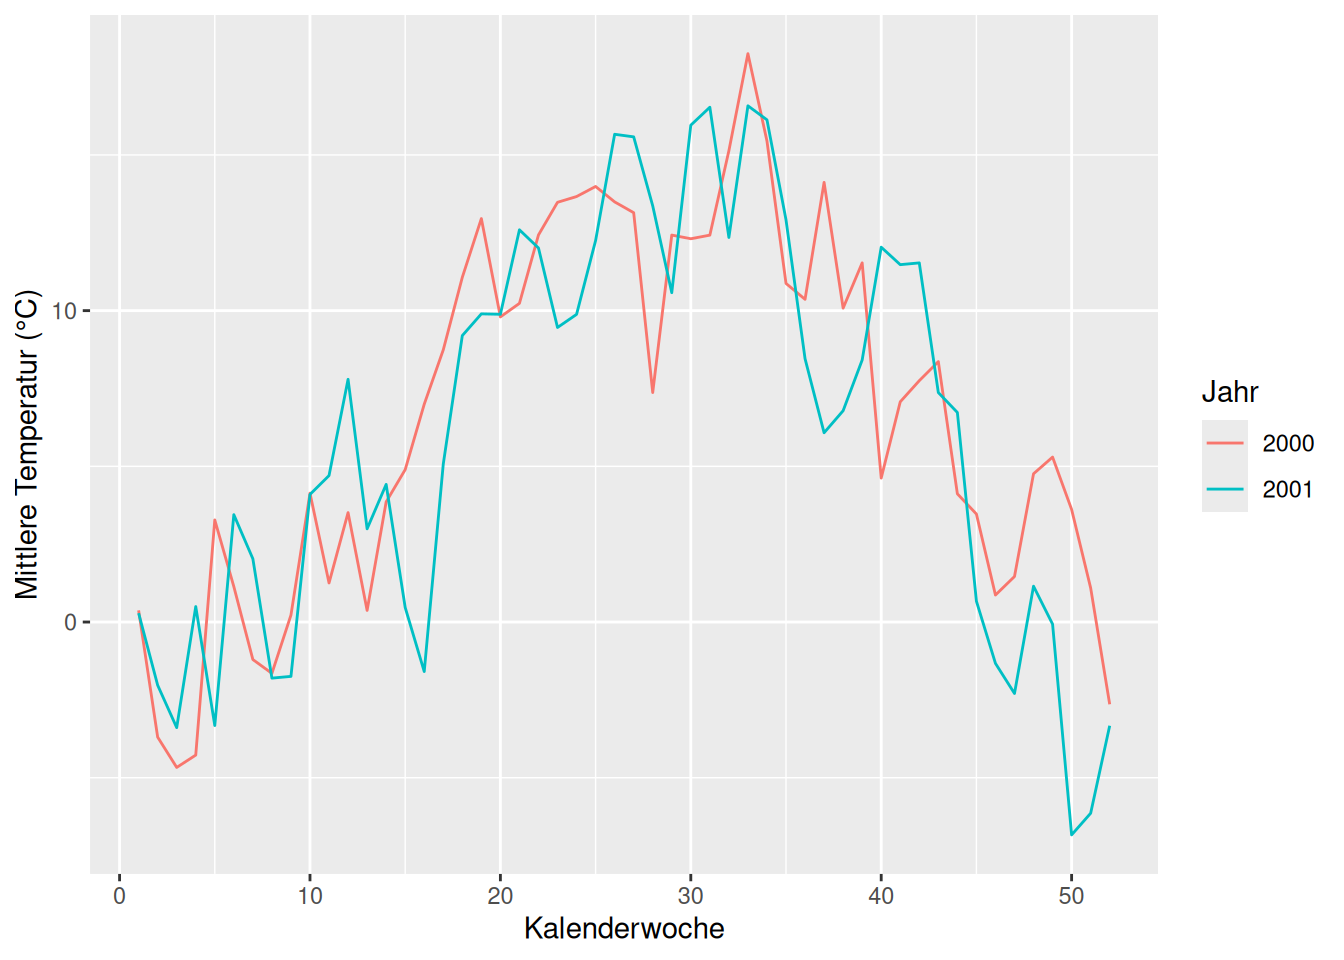
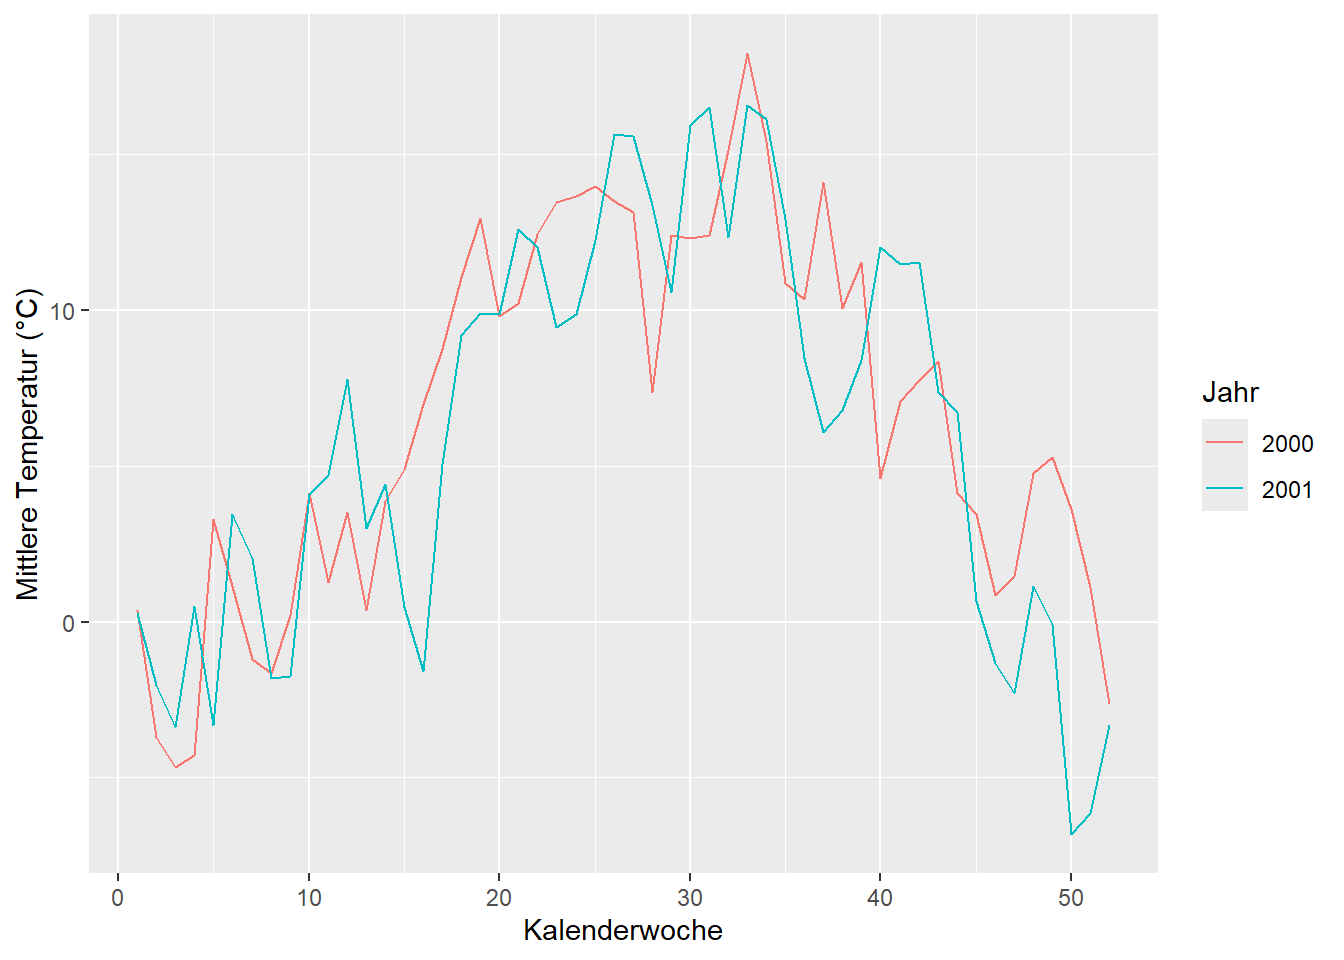
Built site for gh-pages

diff --git a/prepro/Prepro4_Debugging.html b/prepro/Prepro4_Debugging.html
@@ -545,15 +545,8 @@ pre > code.sourceCode > span > a:first-child::before { text-decoration: underlin
 <span id="cb1-2"><a href="#cb1-2" aria-hidden="true" tabindex="-1"></a><span class="fu">library</span>(<span class="st">"lubridate"</span>)</span>
 <span id="cb1-3"><a href="#cb1-3" aria-hidden="true" tabindex="-1"></a></span>
 <span id="cb1-4"><a href="#cb1-4" aria-hidden="true" tabindex="-1"></a>wetter <span class="ot">&lt;-</span> <span class="fu">read_delim</span>(<span class="st">"datasets/prepro/weather_prepro4.csv"</span>, <span class="st">","</span>)</span>
-<span id="cb1-5"><a href="#cb1-5" aria-hidden="true" tabindex="-1"></a><span class="do">## Error:</span></span>
-<span id="cb1-6"><a href="#cb1-6" aria-hidden="true" tabindex="-1"></a><span class="do">## ! 'datasets/prepro/weather_prepro4.csv' does not exist in current</span></span>
-<span id="cb1-7"><a href="#cb1-7" aria-hidden="true" tabindex="-1"></a><span class="do">##   working directory: 'C:/Daten/Lehre/MSc/Research_Methods/HS26/HS26'.</span></span>
-<span id="cb1-8"><a href="#cb1-8" aria-hidden="true" tabindex="-1"></a>wetter<span class="sc">$</span>time <span class="ot">&lt;-</span> <span class="fu">as.POSIXct</span>(<span class="fu">as.character</span>(wetter<span class="sc">$</span>time), <span class="at">format =</span> <span class="st">"%Y%m%d%H"</span>, <span class="at">tz =</span> <span class="st">"UTC"</span>)</span>
-<span id="cb1-9"><a href="#cb1-9" aria-hidden="true" tabindex="-1"></a><span class="do">## Error:</span></span>
-<span id="cb1-10"><a href="#cb1-10" aria-hidden="true" tabindex="-1"></a><span class="do">## ! Objekt 'wetter' nicht gefunden</span></span>
-<span id="cb1-11"><a href="#cb1-11" aria-hidden="true" tabindex="-1"></a>wetter<span class="sc">$</span>monat <span class="ot">&lt;-</span> <span class="fu">month</span>(wetter<span class="sc">$</span>time)</span>
-<span id="cb1-12"><a href="#cb1-12" aria-hidden="true" tabindex="-1"></a><span class="do">## Error:</span></span>
-<span id="cb1-13"><a href="#cb1-13" aria-hidden="true" tabindex="-1"></a><span class="do">## ! Objekt 'wetter' nicht gefunden</span></span></code></pre></div><button title="In die Zwischenablage kopieren" class="code-copy-button"><i class="bi"></i></button></div>
+<span id="cb1-5"><a href="#cb1-5" aria-hidden="true" tabindex="-1"></a>wetter<span class="sc">$</span>time <span class="ot">&lt;-</span> <span class="fu">as.POSIXct</span>(<span class="fu">as.character</span>(wetter<span class="sc">$</span>time), <span class="at">format =</span> <span class="st">"%Y%m%d%H"</span>, <span class="at">tz =</span> <span class="st">"UTC"</span>)</span>
+<span id="cb1-6"><a href="#cb1-6" aria-hidden="true" tabindex="-1"></a>wetter<span class="sc">$</span>monat <span class="ot">&lt;-</span> <span class="fu">month</span>(wetter<span class="sc">$</span>time)</span></code></pre></div><button title="In die Zwischenablage kopieren" class="code-copy-button"><i class="bi"></i></button></div>
 </div>
 </section>
 <section id="beispiel-1-base-r" class="level3">
@@ -573,14 +566,8 @@ pre > code.sourceCode > span > a:first-child::before { text-decoration: underlin
 <p>Jetzt lassen wir den Code laufen.</p>
 <div class="cell">
 <div class="code-copy-outer-scaffold"><div class="sourceCode cell-code" id="cb3"><pre class="sourceCode r code-with-copy"><code class="sourceCode r"><span id="cb3-1"><a href="#cb3-1" aria-hidden="true" tabindex="-1"></a><span class="fu">mean</span>(wetter<span class="sc">$</span>tre200h0[wetter<span class="sc">$</span>monat <span class="sc">==</span> <span class="st">"Januar"</span>])</span>
-<span id="cb3-2"><a href="#cb3-2" aria-hidden="true" tabindex="-1"></a><span class="do">## Error:</span></span>
-<span id="cb3-3"><a href="#cb3-3" aria-hidden="true" tabindex="-1"></a><span class="do">## ! Objekt 'wetter' nicht gefunden</span></span>
-<span id="cb3-4"><a href="#cb3-4" aria-hidden="true" tabindex="-1"></a><span class="fu">mean</span>(wetter<span class="sc">$</span>tre200h0[wetter<span class="sc">$</span>monat <span class="sc">==</span> <span class="st">"Februar"</span>])</span>
-<span id="cb3-5"><a href="#cb3-5" aria-hidden="true" tabindex="-1"></a><span class="do">## Error:</span></span>
-<span id="cb3-6"><a href="#cb3-6" aria-hidden="true" tabindex="-1"></a><span class="do">## ! Objekt 'wetter' nicht gefunden</span></span>
-<span id="cb3-7"><a href="#cb3-7" aria-hidden="true" tabindex="-1"></a><span class="fu">mean</span>(wetter<span class="sc">$</span>tre200h0[wetter<span class="sc">$</span>monat <span class="sc">==</span> <span class="st">"März"</span>])</span>
-<span id="cb3-8"><a href="#cb3-8" aria-hidden="true" tabindex="-1"></a><span class="do">## Error:</span></span>
-<span id="cb3-9"><a href="#cb3-9" aria-hidden="true" tabindex="-1"></a><span class="do">## ! Objekt 'wetter' nicht gefunden</span></span></code></pre></div><button title="In die Zwischenablage kopieren" class="code-copy-button"><i class="bi"></i></button></div>
+<span id="cb3-2"><a href="#cb3-2" aria-hidden="true" tabindex="-1"></a><span class="fu">mean</span>(wetter<span class="sc">$</span>tre200h0[wetter<span class="sc">$</span>monat <span class="sc">==</span> <span class="st">"Februar"</span>])</span>
+<span id="cb3-3"><a href="#cb3-3" aria-hidden="true" tabindex="-1"></a><span class="fu">mean</span>(wetter<span class="sc">$</span>tre200h0[wetter<span class="sc">$</span>monat <span class="sc">==</span> <span class="st">"März"</span>])</span></code></pre></div><button title="In die Zwischenablage kopieren" class="code-copy-button"><i class="bi"></i></button></div>
 </div>
 <ul>
 <li><p><strong>Was ist der Output dieses Codes?</strong> → NaN als Ergebnis</p></li>
@@ -590,32 +577,22 @@ pre > code.sourceCode > span > a:first-child::before { text-decoration: underlin
 <p>Welche Werte sind in der Spalte <code>monat</code> enthalten?</p>
 <div class="cell">
 <div class="code-copy-outer-scaffold"><div class="sourceCode cell-code" id="cb4"><pre class="sourceCode r code-with-copy"><code class="sourceCode r"><span id="cb4-1"><a href="#cb4-1" aria-hidden="true" tabindex="-1"></a>wetter<span class="sc">$</span>monat[<span class="dv">1</span><span class="sc">:</span><span class="dv">10</span>]</span>
-<span id="cb4-2"><a href="#cb4-2" aria-hidden="true" tabindex="-1"></a><span class="do">## Error:</span></span>
-<span id="cb4-3"><a href="#cb4-3" aria-hidden="true" tabindex="-1"></a><span class="do">## ! Objekt 'wetter' nicht gefunden</span></span></code></pre></div><button title="In die Zwischenablage kopieren" class="code-copy-button"><i class="bi"></i></button></div>
+<span id="cb4-2"><a href="#cb4-2" aria-hidden="true" tabindex="-1"></a><span class="do">##  [1] 1 1 1 1 1 1 1 1 1 1</span></span></code></pre></div><button title="In die Zwischenablage kopieren" class="code-copy-button"><i class="bi"></i></button></div>
 </div>
 <p>Das Problem ist, dass <code>monat</code> als Integer codiert ist und nicht mit Namen. Wir haben somit unseren Fehler lokalisiert und können ihn debuggen.</p>
 <div class="cell">
 <div class="code-copy-outer-scaffold"><div class="sourceCode cell-code" id="cb5"><pre class="sourceCode r code-with-copy"><code class="sourceCode r"><span id="cb5-1"><a href="#cb5-1" aria-hidden="true" tabindex="-1"></a>wetter<span class="sc">$</span>monat <span class="sc">==</span> <span class="dv">1</span></span>
-<span id="cb5-2"><a href="#cb5-2" aria-hidden="true" tabindex="-1"></a><span class="do">## Error:</span></span>
-<span id="cb5-3"><a href="#cb5-3" aria-hidden="true" tabindex="-1"></a><span class="do">## ! Objekt 'wetter' nicht gefunden</span></span>
-<span id="cb5-4"><a href="#cb5-4" aria-hidden="true" tabindex="-1"></a>wetter<span class="sc">$</span>monat <span class="sc">==</span> <span class="dv">2</span></span>
-<span id="cb5-5"><a href="#cb5-5" aria-hidden="true" tabindex="-1"></a><span class="do">## Error:</span></span>
-<span id="cb5-6"><a href="#cb5-6" aria-hidden="true" tabindex="-1"></a><span class="do">## ! Objekt 'wetter' nicht gefunden</span></span>
-<span id="cb5-7"><a href="#cb5-7" aria-hidden="true" tabindex="-1"></a>wetter<span class="sc">$</span>monat <span class="sc">==</span> <span class="dv">3</span></span>
-<span id="cb5-8"><a href="#cb5-8" aria-hidden="true" tabindex="-1"></a><span class="do">## Error:</span></span>
-<span id="cb5-9"><a href="#cb5-9" aria-hidden="true" tabindex="-1"></a><span class="do">## ! Objekt 'wetter' nicht gefunden</span></span></code></pre></div><button title="In die Zwischenablage kopieren" class="code-copy-button"><i class="bi"></i></button></div>
+<span id="cb5-2"><a href="#cb5-2" aria-hidden="true" tabindex="-1"></a>wetter<span class="sc">$</span>monat <span class="sc">==</span> <span class="dv">2</span></span>
+<span id="cb5-3"><a href="#cb5-3" aria-hidden="true" tabindex="-1"></a>wetter<span class="sc">$</span>monat <span class="sc">==</span> <span class="dv">3</span></span></code></pre></div><button title="In die Zwischenablage kopieren" class="code-copy-button"><i class="bi"></i></button></div>
 </div>
 <p>Jetzt lassen wir den Code noch einmal laufen, damit wir den Output begutachten können.</p>
 <div class="cell">
 <div class="code-copy-outer-scaffold"><div class="sourceCode cell-code" id="cb6"><pre class="sourceCode r code-with-copy"><code class="sourceCode r"><span id="cb6-1"><a href="#cb6-1" aria-hidden="true" tabindex="-1"></a><span class="fu">mean</span>(wetter<span class="sc">$</span>tre200h0[wetter<span class="sc">$</span>monat <span class="sc">==</span> <span class="dv">1</span>])</span>
-<span id="cb6-2"><a href="#cb6-2" aria-hidden="true" tabindex="-1"></a><span class="do">## Error:</span></span>
-<span id="cb6-3"><a href="#cb6-3" aria-hidden="true" tabindex="-1"></a><span class="do">## ! Objekt 'wetter' nicht gefunden</span></span>
-<span id="cb6-4"><a href="#cb6-4" aria-hidden="true" tabindex="-1"></a><span class="fu">mean</span>(wetter<span class="sc">$</span>tre200h0[wetter<span class="sc">$</span>monat <span class="sc">==</span> <span class="dv">2</span>])</span>
-<span id="cb6-5"><a href="#cb6-5" aria-hidden="true" tabindex="-1"></a><span class="do">## Error:</span></span>
-<span id="cb6-6"><a href="#cb6-6" aria-hidden="true" tabindex="-1"></a><span class="do">## ! Objekt 'wetter' nicht gefunden</span></span>
-<span id="cb6-7"><a href="#cb6-7" aria-hidden="true" tabindex="-1"></a><span class="fu">mean</span>(wetter<span class="sc">$</span>tre200h0[wetter<span class="sc">$</span>monat <span class="sc">==</span> <span class="dv">3</span>])</span>
-<span id="cb6-8"><a href="#cb6-8" aria-hidden="true" tabindex="-1"></a><span class="do">## Error:</span></span>
-<span id="cb6-9"><a href="#cb6-9" aria-hidden="true" tabindex="-1"></a><span class="do">## ! Objekt 'wetter' nicht gefunden</span></span></code></pre></div><button title="In die Zwischenablage kopieren" class="code-copy-button"><i class="bi"></i></button></div>
+<span id="cb6-2"><a href="#cb6-2" aria-hidden="true" tabindex="-1"></a><span class="do">## [1] -1.963239</span></span>
+<span id="cb6-3"><a href="#cb6-3" aria-hidden="true" tabindex="-1"></a><span class="fu">mean</span>(wetter<span class="sc">$</span>tre200h0[wetter<span class="sc">$</span>monat <span class="sc">==</span> <span class="dv">2</span>])</span>
+<span id="cb6-4"><a href="#cb6-4" aria-hidden="true" tabindex="-1"></a><span class="do">## [1] 0.3552632</span></span>
+<span id="cb6-5"><a href="#cb6-5" aria-hidden="true" tabindex="-1"></a><span class="fu">mean</span>(wetter<span class="sc">$</span>tre200h0[wetter<span class="sc">$</span>monat <span class="sc">==</span> <span class="dv">3</span>])</span>
+<span id="cb6-6"><a href="#cb6-6" aria-hidden="true" tabindex="-1"></a><span class="do">## [1] 2.965054</span></span></code></pre></div><button title="In die Zwischenablage kopieren" class="code-copy-button"><i class="bi"></i></button></div>
 </div>
 <p>Jetzt sieht der Output gut sein.</p>
 </section>
@@ -630,8 +607,9 @@ pre > code.sourceCode > span > a:first-child::before { text-decoration: underlin
 <span id="cb7-5"><a href="#cb7-5" aria-hidden="true" tabindex="-1"></a>  <span class="fu">summarise</span>(</span>
 <span id="cb7-6"><a href="#cb7-6" aria-hidden="true" tabindex="-1"></a>    <span class="at">temp_mean =</span> <span class="fu">mean</span>(tre200h0)</span>
 <span id="cb7-7"><a href="#cb7-7" aria-hidden="true" tabindex="-1"></a>  )</span>
-<span id="cb7-8"><a href="#cb7-8" aria-hidden="true" tabindex="-1"></a><span class="do">## Error:</span></span>
-<span id="cb7-9"><a href="#cb7-9" aria-hidden="true" tabindex="-1"></a><span class="do">## ! Objekt 'wetter' nicht gefunden</span></span></code></pre></div><button title="In die Zwischenablage kopieren" class="code-copy-button"><i class="bi"></i></button></div>
+<span id="cb7-8"><a href="#cb7-8" aria-hidden="true" tabindex="-1"></a><span class="do">## Error in `group_by()`:</span></span>
+<span id="cb7-9"><a href="#cb7-9" aria-hidden="true" tabindex="-1"></a><span class="do">## ! Must group by variables found in `.data`.</span></span>
+<span id="cb7-10"><a href="#cb7-10" aria-hidden="true" tabindex="-1"></a><span class="do">## ✖ Column `monate` is not found.</span></span></code></pre></div><button title="In die Zwischenablage kopieren" class="code-copy-button"><i class="bi"></i></button></div>
 </div>
 <ul>
 <li><p><strong>Was ist der Output dieses Codes?</strong> → Es erscheint die Fehlermeldung: <em>Error in <code>group_by()</code>: ! Must group by variables found in <code>.data</code>. ✖ Column <code>monate</code> is not found.</em></p></li>
@@ -640,8 +618,7 @@ pre > code.sourceCode > span > a:first-child::before { text-decoration: underlin
 </ul>
 <div class="cell">
 <div class="code-copy-outer-scaffold"><div class="sourceCode cell-code" id="cb8"><pre class="sourceCode r code-with-copy"><code class="sourceCode r"><span id="cb8-1"><a href="#cb8-1" aria-hidden="true" tabindex="-1"></a><span class="fu">colnames</span>(wetter)</span>
-<span id="cb8-2"><a href="#cb8-2" aria-hidden="true" tabindex="-1"></a><span class="do">## Error:</span></span>
-<span id="cb8-3"><a href="#cb8-3" aria-hidden="true" tabindex="-1"></a><span class="do">## ! Objekt 'wetter' nicht gefunden</span></span></code></pre></div><button title="In die Zwischenablage kopieren" class="code-copy-button"><i class="bi"></i></button></div>
+<span id="cb8-2"><a href="#cb8-2" aria-hidden="true" tabindex="-1"></a><span class="do">## [1] "stn"      "time"     "tre200h0" "monat"</span></span></code></pre></div><button title="In die Zwischenablage kopieren" class="code-copy-button"><i class="bi"></i></button></div>
 </div>
 <p>Wir bereinigen den Code und lassen den gefixten Code laufen:</p>
 <div class="cell">
@@ -649,9 +626,7 @@ pre > code.sourceCode > span > a:first-child::before { text-decoration: underlin
 <span id="cb9-2"><a href="#cb9-2" aria-hidden="true" tabindex="-1"></a>  <span class="fu">group_by</span>(monat) <span class="sc">|&gt;</span></span>
 <span id="cb9-3"><a href="#cb9-3" aria-hidden="true" tabindex="-1"></a>  <span class="fu">summarise</span>(</span>
 <span id="cb9-4"><a href="#cb9-4" aria-hidden="true" tabindex="-1"></a>    <span class="at">temp_mean =</span> <span class="fu">mean</span>(tre200h0)</span>
-<span id="cb9-5"><a href="#cb9-5" aria-hidden="true" tabindex="-1"></a>  )</span>
-<span id="cb9-6"><a href="#cb9-6" aria-hidden="true" tabindex="-1"></a><span class="do">## Error:</span></span>
-<span id="cb9-7"><a href="#cb9-7" aria-hidden="true" tabindex="-1"></a><span class="do">## ! Objekt 'wetter' nicht gefunden</span></span></code></pre></div><button title="In die Zwischenablage kopieren" class="code-copy-button"><i class="bi"></i></button></div>
+<span id="cb9-5"><a href="#cb9-5" aria-hidden="true" tabindex="-1"></a>  )</span></code></pre></div><button title="In die Zwischenablage kopieren" class="code-copy-button"><i class="bi"></i></button></div>
 </div>
 <ul>
 <li><p><strong>Was ist der Output dieses Codes?</strong> → Der Code läuft ohne Fehlermeldung durch, dafür ist der Output nicht zufriedenstellend, da im Monat April NA als Durchschnittstemperatur erscheint.</p></li>
@@ -660,9 +635,7 @@ pre > code.sourceCode > span > a:first-child::before { text-decoration: underlin
 </ul>
 <div class="cell">
 <div class="code-copy-outer-scaffold"><div class="sourceCode cell-code" id="cb10"><pre class="sourceCode r code-with-copy"><code class="sourceCode r"><span id="cb10-1"><a href="#cb10-1" aria-hidden="true" tabindex="-1"></a>wetter <span class="sc">|&gt;</span> </span>
-<span id="cb10-2"><a href="#cb10-2" aria-hidden="true" tabindex="-1"></a>  <span class="fu">filter</span>(monat <span class="sc">==</span> <span class="dv">4</span> <span class="sc">&amp;</span> <span class="fu">is.na</span>(tre200h0))</span>
-<span id="cb10-3"><a href="#cb10-3" aria-hidden="true" tabindex="-1"></a><span class="do">## Error:</span></span>
-<span id="cb10-4"><a href="#cb10-4" aria-hidden="true" tabindex="-1"></a><span class="do">## ! Objekt 'wetter' nicht gefunden</span></span></code></pre></div><button title="In die Zwischenablage kopieren" class="code-copy-button"><i class="bi"></i></button></div>
+<span id="cb10-2"><a href="#cb10-2" aria-hidden="true" tabindex="-1"></a>  <span class="fu">filter</span>(monat <span class="sc">==</span> <span class="dv">4</span> <span class="sc">&amp;</span> <span class="fu">is.na</span>(tre200h0))</span></code></pre></div><button title="In die Zwischenablage kopieren" class="code-copy-button"><i class="bi"></i></button></div>
 </div>
 <p>Wie es scheint, fiel an einem Tag im April 2000 der Sensor aus.</p>
 <ul>
@@ -673,9 +646,7 @@ pre > code.sourceCode > span > a:first-child::before { text-decoration: underlin
 <span id="cb11-2"><a href="#cb11-2" aria-hidden="true" tabindex="-1"></a>  <span class="fu">group_by</span>(monat) <span class="sc">|&gt;</span></span>
 <span id="cb11-3"><a href="#cb11-3" aria-hidden="true" tabindex="-1"></a>  <span class="fu">summarise</span>(</span>
 <span id="cb11-4"><a href="#cb11-4" aria-hidden="true" tabindex="-1"></a>    <span class="at">temp_mean =</span> <span class="fu">mean</span>(tre200h0, <span class="at">na.rm =</span> T)</span>
-<span id="cb11-5"><a href="#cb11-5" aria-hidden="true" tabindex="-1"></a>  )</span>
-<span id="cb11-6"><a href="#cb11-6" aria-hidden="true" tabindex="-1"></a><span class="do">## Error:</span></span>
-<span id="cb11-7"><a href="#cb11-7" aria-hidden="true" tabindex="-1"></a><span class="do">## ! Objekt 'wetter' nicht gefunden</span></span></code></pre></div><button title="In die Zwischenablage kopieren" class="code-copy-button"><i class="bi"></i></button></div>
+<span id="cb11-5"><a href="#cb11-5" aria-hidden="true" tabindex="-1"></a>  )</span></code></pre></div><button title="In die Zwischenablage kopieren" class="code-copy-button"><i class="bi"></i></button></div>
 </div>
 </section>
 <section id="zusammenfassung" class="level3">

diff --git a/prepro/Prepro4_Vibecoding.html b/prepro/Prepro4_Vibecoding.html
@@ -553,19 +553,6 @@ pre > code.sourceCode > span > a:first-child::before { text-decoration: underlin
 <div class="cell">
 <div class="code-copy-outer-scaffold"><div class="sourceCode cell-code" id="cb1"><pre class="sourceCode r code-with-copy"><code class="sourceCode r"><span id="cb1-1"><a href="#cb1-1" aria-hidden="true" tabindex="-1"></a><span class="co"># Mittlere Temperatur pro Monat und Jahr berechnen</span></span></code></pre></div><button title="In die Zwischenablage kopieren" class="code-copy-button"><i class="bi"></i></button></div>
 </div>
-<div class="callout callout-style-default callout-important callout-titled">
-<div class="callout-header d-flex align-content-center">
-<div class="callout-icon-container">
-<i class="callout-icon"></i>
-</div>
-<div class="callout-title-container flex-fill">
-Wichtig
-</div>
-</div>
-<div class="callout-body-container callout-body">
-<p>Für die Nutzung von GitHub Copilot wird ein GitHub-Account sowie ein aktives Abonnement (Copilot for Individuals oder Copilot for Business) benötigt.</p>
-</div>
-</div>
 <div class="callout callout-style-default callout-note callout-titled">
 <div class="callout-header d-flex align-content-center">
 <div class="callout-icon-container">
@@ -576,6 +563,7 @@ Hinweis
 </div>
 </div>
 <div class="callout-body-container callout-body">
+<p>Für die Nutzung von GitHub Copilot wird ein GitHub-Account sowie ein aktives Abonnement (Copilot for Individuals oder Copilot for Business) benötigt.</p>
 <p>Studierende und Lehrpersonen können GitHub Copilot kostenlos über das <a href="https://education.github.com">GitHub Education-Programm</a> nutzen.</p>
 </div>
 </div>
@@ -622,9 +610,7 @@ Hinweis
 <li>Unterscheiden sich die generierten Codes?</li>
 <li>Sind beide korrekt und direkt ausführbar?</li>
 <li>Gibt es Unterschiede im Stil — z.B. Base R vs.&nbsp;tidyverse, mit oder ohne Piping?</li>
-<li>Was sagt das über die Verlässlichkeit von KI-generiertem Code aus?</li>
 </ul>
-<p>Es gibt keine Musterlösung — die Antwort hängt davon ab, was du erlebt hast.</p>
 
 
 </section>
